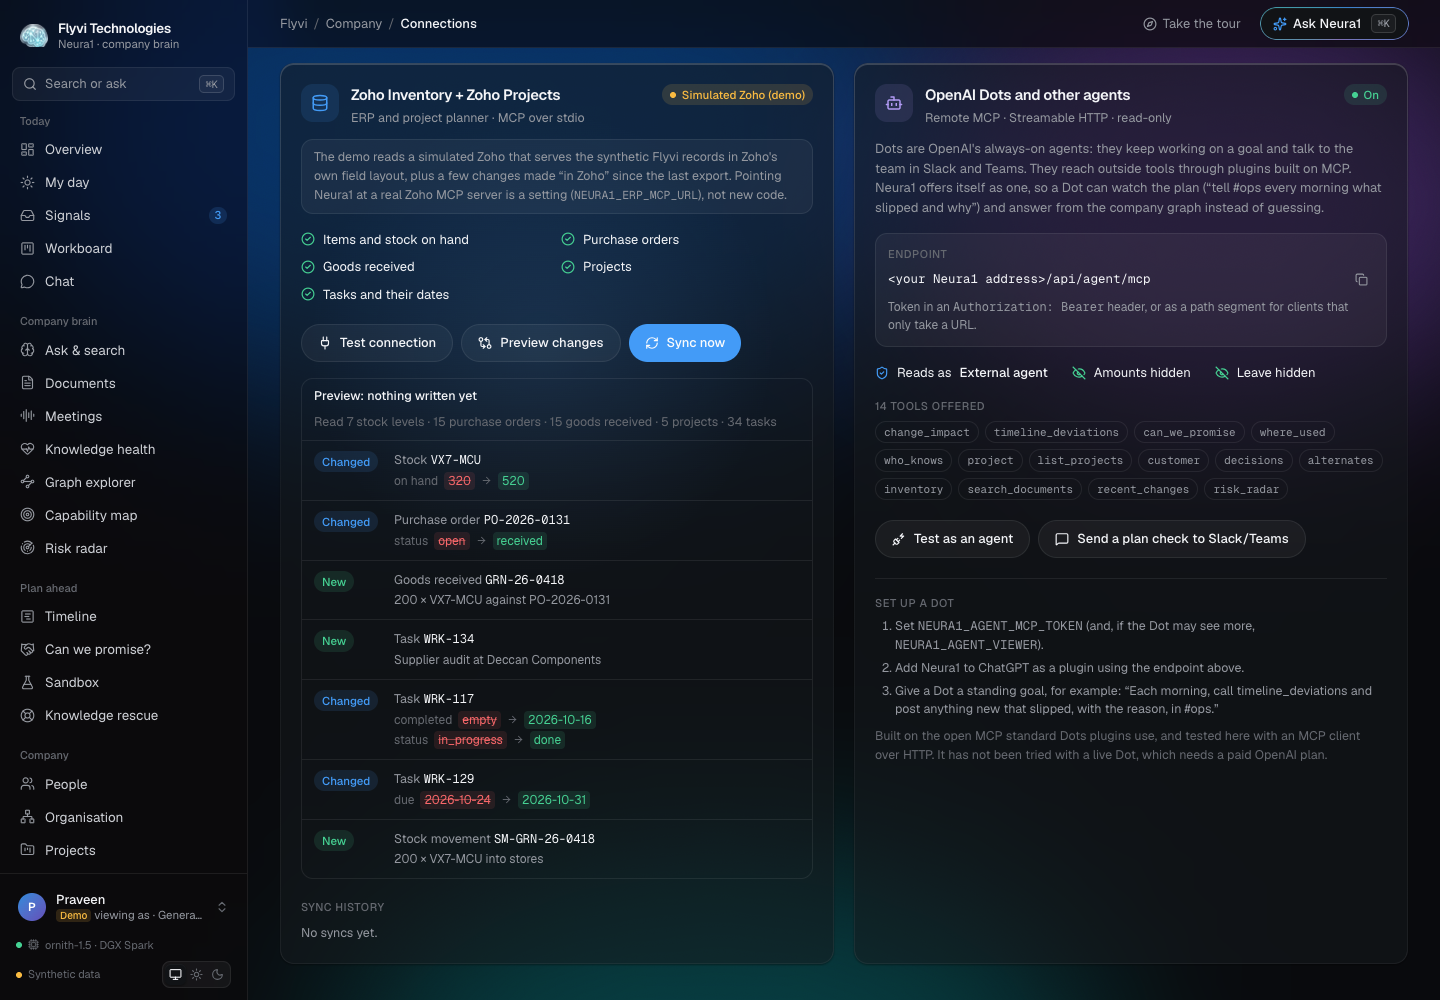
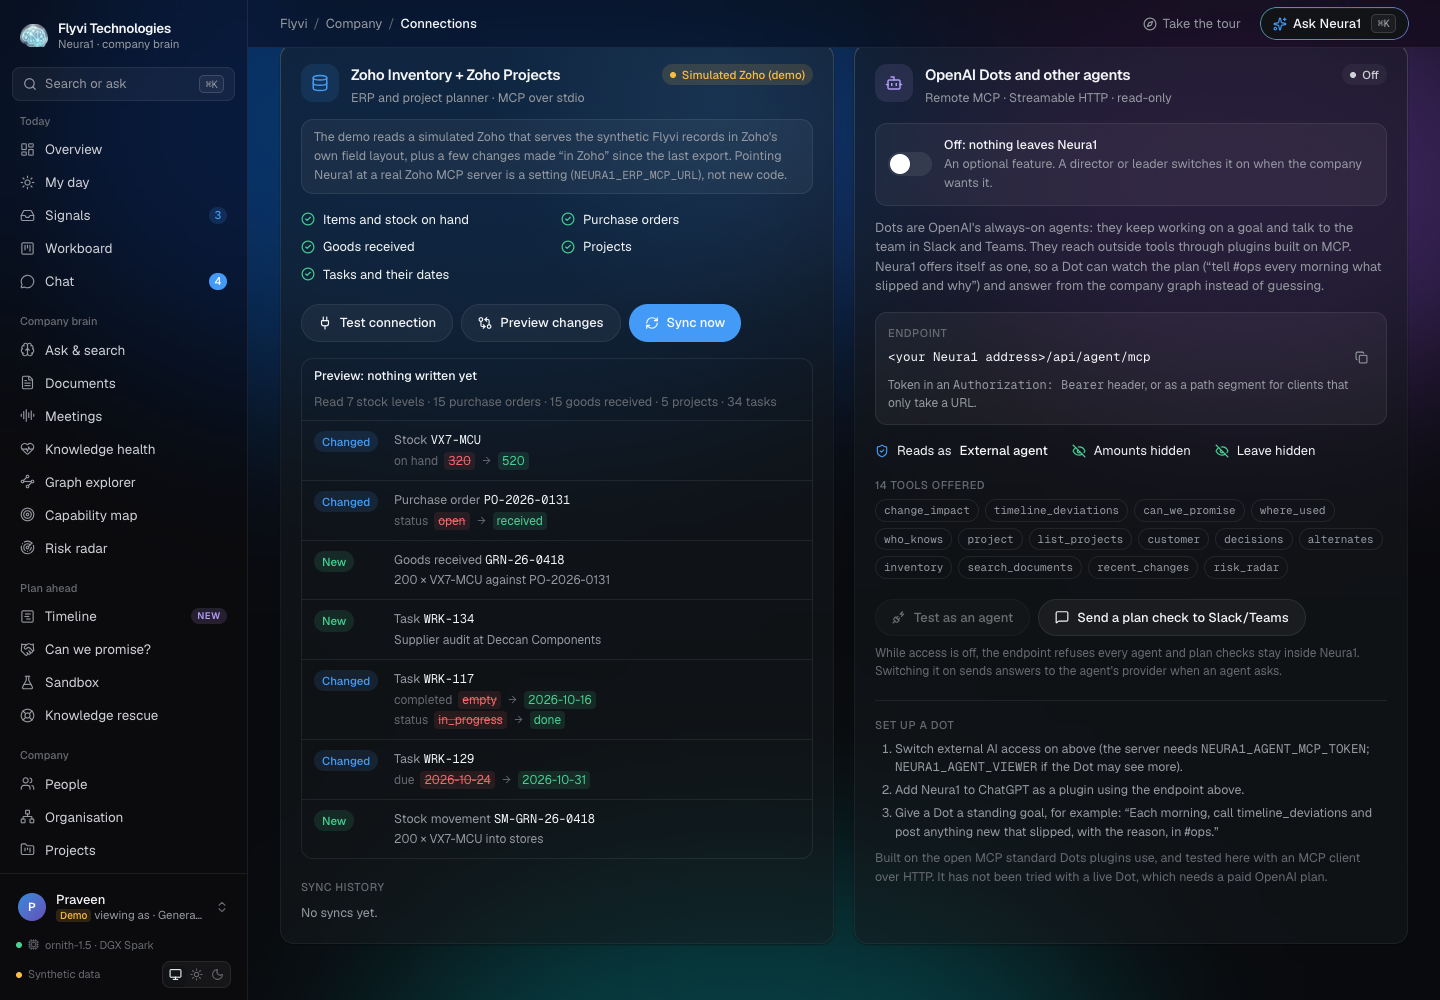
Bring every document up to date
- Counts: 27 Ask tools, 30 kinds of record, 110 documented queries, 120 tests
- AI disclosure: current models and tests, and a draft of the author's part for review
- Blog: the timeline, the ERP over MCP and optional agents; next steps updated
- Data model (Setting), fixture readme (erp/), and every new optional setting in .env.example
- Connections screenshot re-captured with the external AI switch

diff --git a/README.md b/README.md
@@ -54,7 +54,7 @@ The part that traces parts, builds, orders and suppliers is built for manufactur
 **An add-on to the planning tools a company already has.** Neura1 does not ask anyone to leave their ERP or project
 planner. It reads them over the Model Context Protocol (Zoho Inventory and Zoho Projects in the demo), keeps the graph in
 step, shows on one timeline where the plan is slipping and why, and lets the agents a team already works with, such as
-OpenAI Dots, ask it questions. Modules can take over from paid tools later, one at a time, when a company is ready.
+OpenAI Dots, ask it questions, but only if the company switches that on. Modules can take over from paid tools later, one at a time, when a company is ready.
 
 > [!NOTE]
 > **Flyvi Technologies is the reference company, not the limit.** Neura1 was designed around a real manufacturer:
@@ -140,7 +140,7 @@ Neura1 holds the whole company in one FalkorDB graph, so one traversal answers i
 <table>
   <tr>
     <td width="50%"><img src="docs/demo/impact-overview.png" alt="Impact workspace"><br><sub><b>Change impact.</b> Headline numbers, the rejected-part banner, the evidence graph and who needs to do what, with every Cypher query and its timing one click away.</sub></td>
-    <td width="50%"><img src="docs/demo/neura1-chat.png" alt="Ask Neura1"><br><sub><b>Ask anything.</b> An agent plans its own steps over 26 bounded graph tools and read-only Cypher, and cites its sources. "What should we order this week, and why?" is answered on the DGX from inventory, drafted orders and supplier notices.</sub></td>
+    <td width="50%"><img src="docs/demo/neura1-chat.png" alt="Ask Neura1"><br><sub><b>Ask anything.</b> An agent plans its own steps over 27 bounded graph tools and read-only Cypher, and cites its sources. "What should we order this week, and why?" is answered on the DGX from inventory, drafted orders and supplier notices.</sub></td>
   </tr>
   <tr>
     <td><img src="docs/demo/risk-radar.png" alt="Risk radar"><br><sub><b>Risk radar.</b> FalkorDB betweenness centrality and label propagation find chokepoints, single-sourced parts, one-person knowledge and how work really clusters.</sub></td>
@@ -203,7 +203,7 @@ Neura1 holds the whole company in one FalkorDB graph, so one traversal answers i
 
 ## ◆ Architecture
 
-<img src="docs/readme/architecture.svg" alt="Sources are validated and read on Flyvi's own hardware, verified facts enter one FalkorDB graph, code-only engines answer, and people use it through the web app, chat, the Ask agent, the docs editor and MCP, which also syncs the ERP and planner and serves cloud agents such as OpenAI Dots" width="100%">
+<img src="docs/readme/architecture.svg" alt="Sources are validated and read on Flyvi's own hardware, verified facts enter one FalkorDB graph, code-only engines answer, and people use it through the web app, chat, the Ask agent, the docs editor and MCP, which also syncs the ERP and planner and, when switched on, serves cloud agents such as OpenAI Dots" width="100%">
 
 Three rules hold everywhere:
 
@@ -305,8 +305,8 @@ a browser cannot submit made-up tasks or prices · if FalkorDB is down the API r
 | Graph | **FalkorDB**: Cypher, vector and full-text indexes, graph algorithms, `GRAPH.COPY` |
 | Models | **NVIDIA DGX Spark** serving **ornith-1.5-35b-a3b** with **vLLM** (OpenAI-compatible) · Qwen2.5-7B on Ollama as fallback · nomic-embed-text embeddings |
 | Speech | **faster-whisper** (open-source Whisper, CTranslate2), on premises, primed with the graph's vocabulary |
-| API | **Python 3.12** · **FastAPI** · Pydantic · a JSON plan-act agent with 26 tools |
-| MCP | **Model Context Protocol** both ways: a local server with 16 tools, a remote Streamable HTTP server with 14 permission-filtered tools for cloud agents (OpenAI Dots, ChatGPT, Claude), and a client that syncs Zoho Inventory and Zoho Projects |
+| API | **Python 3.12** · **FastAPI** · Pydantic · a JSON plan-act agent with 27 tools |
+| MCP | **Model Context Protocol** both ways: a local server with 16 tools, a remote Streamable HTTP server with 14 permission-filtered tools for cloud agents (off until switched on in the app) (OpenAI Dots, ChatGPT, Claude), and a client that syncs Zoho Inventory and Zoho Projects |
 | Web | **Next.js 16** · **React 19** with View Transitions · **Tailwind CSS 4** with OKLCH tokens · **Motion** · Lenis · React Flow |
 | Documents | **SuperDoc** (Word layout, tracked changes, .docx) · pdf.js |
 | Operations | Docker Compose · Tailscale · Cloudflare Tunnel · **Playwright**, which captured every screenshot here |

diff --git a/docs/AI_DISCLOSURE.md b/docs/AI_DISCLOSURE.md
@@ -7,20 +7,29 @@ Graph Hacks allows coding assistants if their use is disclosed. This is that dis
 - **Claude Code (Anthropic, Claude Opus 5.5)**: planning, code generation for the API, importer, tests and web app,
   synthetic fixture writing, and documentation drafts.
 - **Codex (OpenAI)**: earlier brainstorming of product direction and market research (planning notes only).
-- **Local open-source model inside the product** (not used for writing code): Qwen2.5-7B-Instruct through Ollama
-  (and, when available, a DGX Spark). It reads supplier notices, extracts decisions from documents, and drives the
-  Ask agent. Its outputs are verified by code before they enter the graph; raw outputs are saved in
-  `fixture/flyvi/extracted/`.
+- **Open models inside the product** (not used for writing code): ornith-1.5-35b-a3b served by vLLM on an NVIDIA
+  DGX Spark, with Qwen2.5-7B-Instruct through Ollama as the automatic fallback, and open-source Whisper for meeting
+  audio. They read supplier notices, extract decisions from documents and meetings, and drive the Ask agent. Their
+  outputs are verified by code before they enter the graph; raw outputs are saved in `fixture/flyvi/extracted/`.
 
 ## What the participant did
 
-<!-- TODO(author): replace with your own honest account before submitting. For example: -->
-- Chose the target customer and product direction (with mentor input).
-- Reviewed and verified the graph model, the Cypher queries and the cost logic, and ran the tests.
-- <!-- Write which parts you changed, debugged or wrote yourself, and which design decisions you made. -->
+<!-- Author: this draft lists only what is on record in the project. Review it, correct it and add anything else
+     you wrote, debugged or decided yourself before submitting. -->
+- Chose the product and the market: a company brain for hardware manufacturers, built around Flyvi Technologies.
+- Supplied the real organisation (directors, leadership, employees) and held the rule that nobody is given a role or
+  portfolio beyond what was stated.
+- Set the constraints the design follows: open source and zero cost, models on the company's own DGX Spark, synthetic
+  records, first names only.
+- Set up the NVIDIA DGX Spark serving the model over Tailscale.
+- Reviewed the running product throughout and directed changes, including rejecting designs that did not meet the bar.
+- Shared the live demo and repository with a mentor and a senior colleague and brought their feedback into the
+  product: ERP integration over MCP, a Gantt with deviations, positioning as an add-on, and OpenAI Dots.
+- Decided product policy, such as keeping external AI access off by default.
 
 ## How correctness is checked
 
-- 17+ automated tests on the fixture: BOM roll-ups, revision applicability, cost edge cases, idempotent imports and
-  approvals, import validation, and rejection of unverifiable model output.
+- 120 automated tests on the fixture: BOM roll-ups, revision applicability, cost edge cases, idempotent imports and
+  approvals, import validation, rejection of unverifiable model output, permissions (money and leave), timeline
+  forecasts, the ERP sync over MCP and the external AI switch.
 - `eval/` compares graph answers against a frozen ground-truth question set.

diff --git a/docs/BLOG.md b/docs/BLOG.md
@@ -50,6 +50,20 @@ documents and chats split into passages linked to what they mention, and the dec
 - **Knowledge rescue.** Before someone leaves, Neura1 interviews them with questions built from the graph and keeps the
   answers as linked, searchable knowledge. The model only helps with follow-up questions and facts it can quote.
 
+## Working with the tools a company already has
+
+Most manufacturers already plan in an ERP and a project tool, so Neura1 is built as an add-on, not a replacement:
+
+- **The plan, and where it is slipping.** One Gantt of every project, task, build and customer order: the first plan
+  recorded, today's plan, and a forecast worked out by code from stock, open purchase orders, supplier notices, lead
+  times and leave. The Nilgiri order ships 142 days late because its build waits for one regulator; the date matches
+  the delivery check exactly, and every slip says why.
+- **The ERP over MCP.** Neura1 reads Zoho Inventory and Zoho Projects through the Model Context Protocol (a simulated
+  Zoho in the demo), compares field by field, validates like any import and loads only what changed. A date moved in
+  Zoho shows on the timeline against the original plan.
+- **Agents, only if the company wants them.** A switch, off by default, lets OpenAI Dots or another agent ask Neura1
+  what is slipping, with a person's permissions. Until a leader turns it on, nothing leaves the building.
+
 ## The evaluation, including where we lost
 
 We wrote expected answers before running anything and compared three systems on the same model (ornith-1.5-35b-a3b on a
@@ -76,7 +90,9 @@ price, so that question could never pass for anyone. We fixed it and rescored ev
 
 ## What we would do next
 
-Connectors for real ERP and PLM exports, a blind evaluation at a larger scale, and per-person briefs. The core idea will
-stay: one graph, every claim with its evidence, and permissions that follow the data.
+A live connection to Flyvi's own Zoho, PLM and EDA connectors, company sign-in instead of the demo's "view as", and a
+blind evaluation at a larger scale. Over time, the modules Flyvi pays for elsewhere (inventory, chat) can move into
+Neura1 one at a time. The core idea will stay: one graph, every claim with its evidence, and permissions that follow
+the data.
 
 *Neura1 is open source (AGPL-3.0) and runs entirely on open models and FalkorDB.*

diff --git a/docs/data-model.md b/docs/data-model.md
@@ -47,6 +47,7 @@ A newer timestamp never overrides an approval. Only an explicit superseding deci
 | `StockMove` | `date`, `qty` (signed), `kind` (opening · receipt · issue · adjustment), `ref` | The stock ledger: every movement `MOVES` an item, and the running balance equals stock on hand |
 | `Channel`, `Message` | `kind` (channel · dm · group · bot), `members`; message `text`, `reactions`, `reply_to` | Channel messages are `Chunk` passages (company knowledge); direct, group and personal messages are `Message` nodes no knowledge query matches |
 | `Brief` | `date`, `person` | One per day (and per person): the morning brief is posted once |
+| `Setting` | `id`, `enabled`, `by`, `at` | Company switches; `external_ai` governs whether any agent or alert channel outside Neura1 may receive answers (off by default and after a reset) |
 | `SyncRun`, `SyncChange` | `connector`, `at`, `by`, `changes`; a change's `what`, `detail`, `ref` | One run per ERP sync over MCP; each change is `IN_RUN` and `ABOUT` the record it changed, and shows in What's new |
 
 Relationships not in the diagram above: `REPORTS_TO`, `BACKS_UP`, `IN_PROJECT` (work items), `ASSIGNED_TO` (tickets and

diff --git a/fixture/flyvi/README.md b/fixture/flyvi/README.md
@@ -14,3 +14,4 @@ quotes, decisions, tickets, chats, leave and task history. People appear by firs
 - `inbox/`: signals. A supplier notice, a customer escalation and a leave notice.
 - `updates/`: new facts that arrive mid-demo (a bench result in chat and a new quote).
 - `extracted/`: raw model outputs, replayed and verified on load.
+- `erp/`: what changed in the (simulated) Zoho Inventory and Zoho Projects since the export; read over MCP by Connections.
